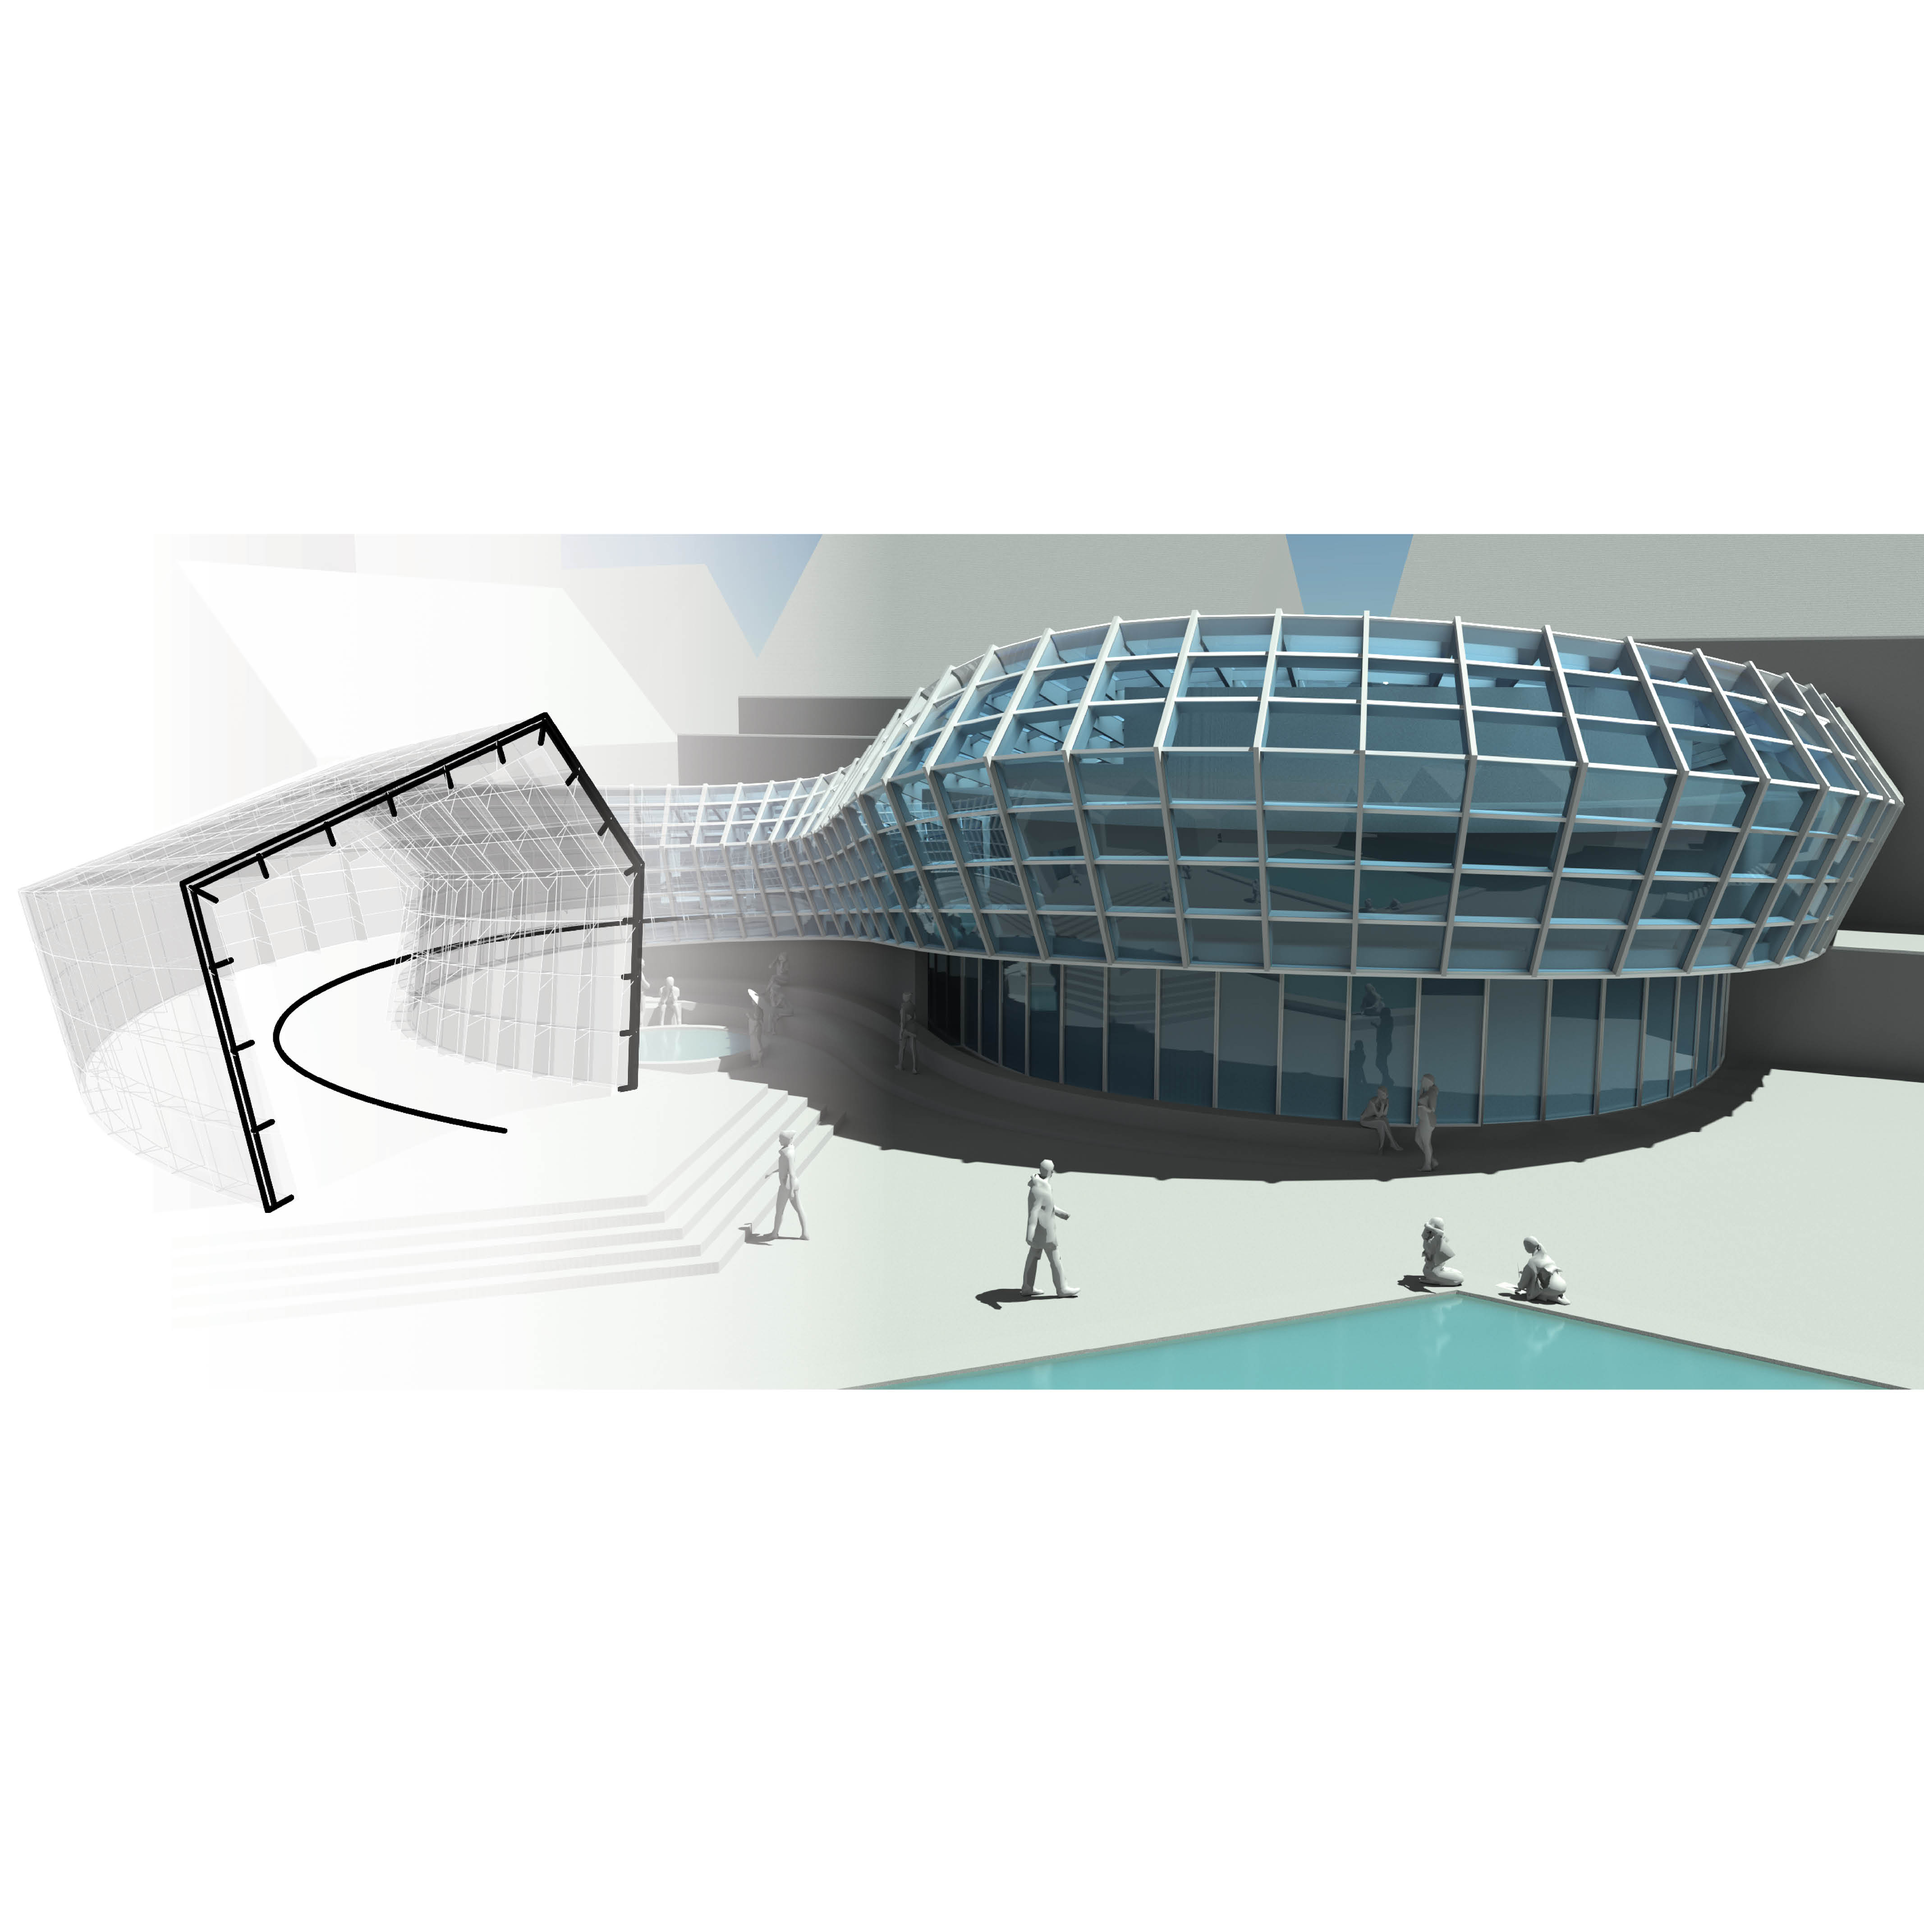
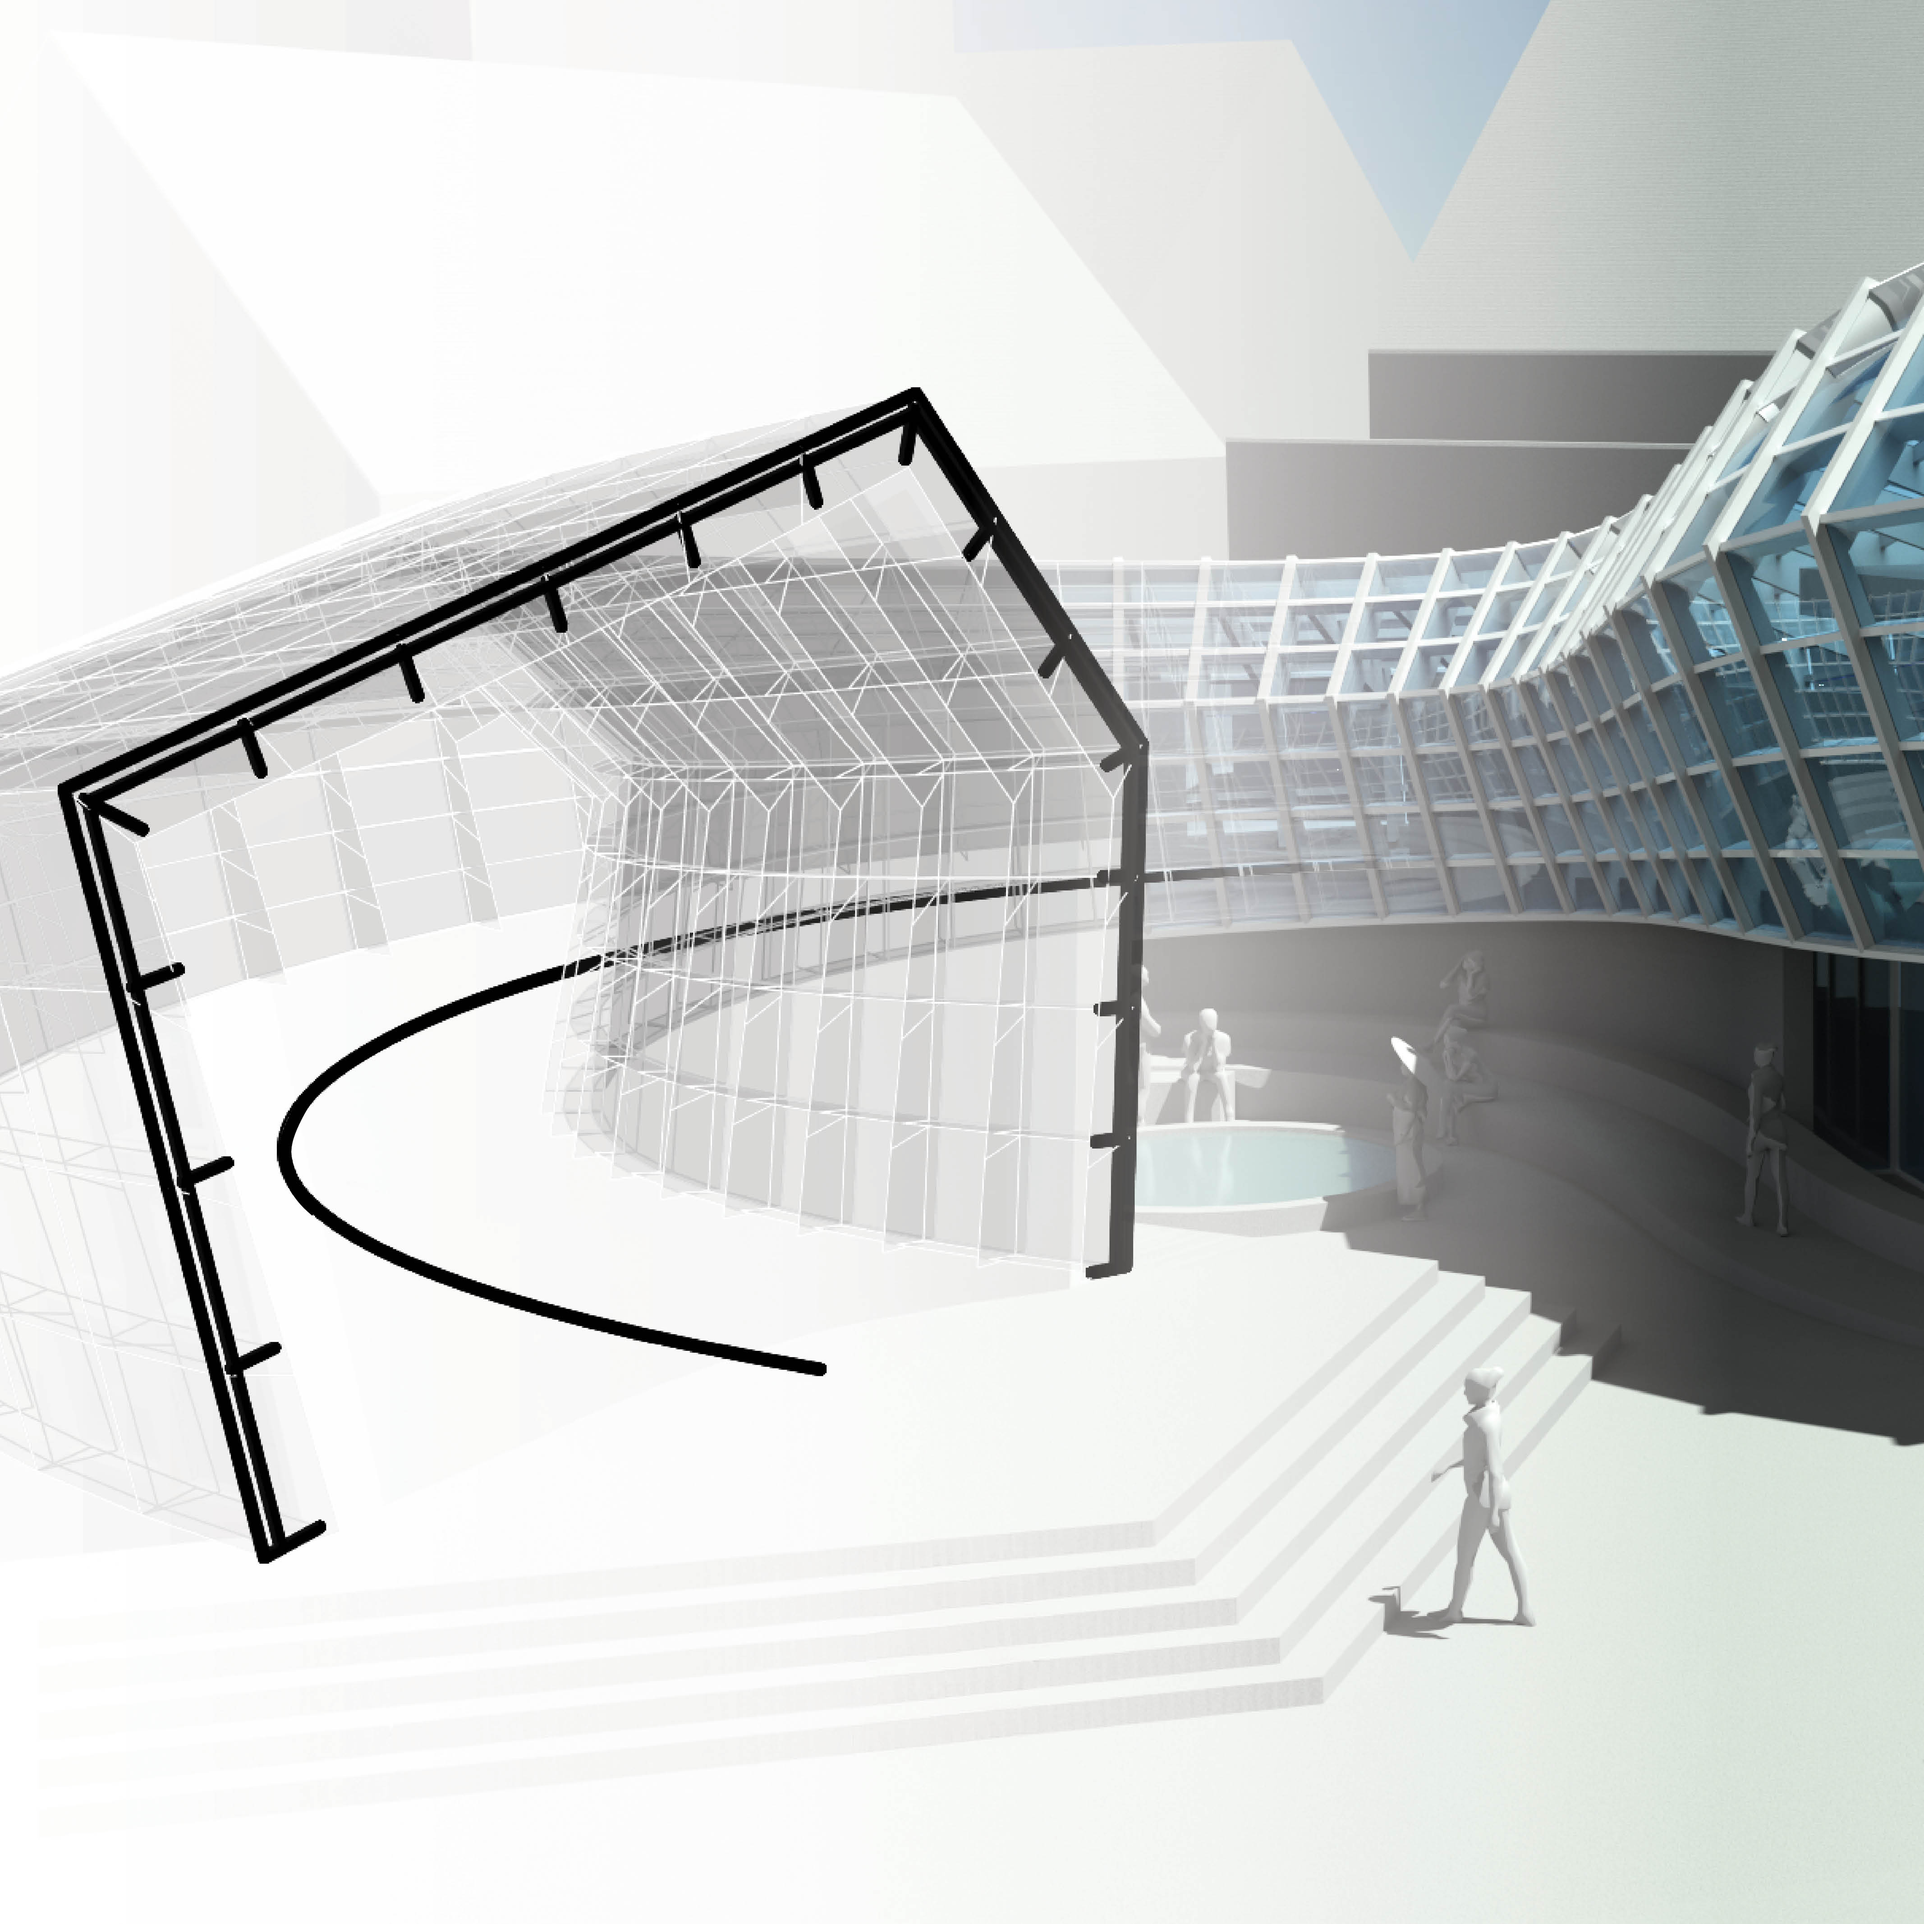
Add abstract, change representative picture for cnets

diff --git a/website/paper_pages/cnets_aag.html b/website/paper_pages/cnets_aag.html
@@ -1,0 +1,65 @@
+<!DOCTYPE html>
+<html>
+<head>
+	<meta charset="utf-8">
+	<meta name="viewport" content="width=device-width, initial-scale=1">
+	<link rel="stylesheet" href="../public/css/jetbrainsFontsStylesheet.css">
+	<link rel="stylesheet" href="../public/css/linuxFontsStylesheet.css">
+	<title>CNets: An Interactive Design Framework for Cone-Nets</title>
+	<link rel="stylesheet" href="../public/css/generalStylesheet.css">
+	<link rel="stylesheet" href="../public/css/projectStylesheet.css">
+	<link rel="stylesheet" href="../public/css/navbarStylesheet.css">
+	<link rel="stylesheet" href="../public/css/darkmodeStylesheet.css">
+	<script src="../src/js/darkmode.js"></script>
+	<link href="https://fonts.googleapis.com/css2?family=Crimson+Text:ital@0;1&family=Source+Code+Pro:wght@600;700&display=swap" rel="stylesheet">
+	<link rel="icon" href="../favicon.png" sizes="32x32">
+</head>
+<body>
+
+<div id="outer_container">
+	<h1 id="title">CNets: An Interactive Design Framework for Cone-Nets</h1>
+	<div id="authors">
+		<p><a href=https://klaramundilova.com/>Klara Mundilova</a>, <span>EPFL, Switzerland</span></p><p><a href=https://people.epfl.ch/michele.vidulis>Michele Vidulis</a>, <span>EPFL, Switzerland</span></p><p><a href=https://qbecky.github.io/><b>Quentin Becker</b></a>, <span>The University of Tokyo, Japan</span></p><p><a href=https://people.epfl.ch/florin.isvoranu>Florin Isvoranu</a>, <span>EPFL, Switzerland</span></p><p><a href=https://people.epfl.ch/mark.pauly>Mark Pauly</a>, <span>EPFL, Switzerland</span></p><br><p><span><i>Advances in Architectural Geometry (AAG)</i>, 2025</span></p><br>
+	</div>
+	<div id="links-outer">
+		<div id = "links">
+			<a href=../papers/cnets_aag/cnets_paper.pdf><svg width=18px height=18px class="icon_links" xmlns="http://www.w3.org/2000/svg"  viewBox="0 0 128 128">    <path d="M 33.5 9 C 26.3 9 20.5 14.8 20.5 22 L 20.5 102 C 20.5 109.2 26.3 115 33.5 115 L 94.5 115 C 101.7 115 107.5 109.2 107.5 102 L 107.5 22 C 107.5 14.8 101.7 9 94.5 9 L 33.5 9 z M 33.5 15 L 94.5 15 C 98.4 15 101.5 18.1 101.5 22 L 101.5 102 C 101.5 105.9 98.4 109 94.5 109 L 33.5 109 C 29.6 109 26.5 105.9 26.5 102 L 26.5 22 C 26.5 18.1 29.6 15 33.5 15 z M 33.5 22 L 33.5 37 L 94.5 37 L 94.5 22 L 33.5 22 z M 37.5 51 C 35.8 51 34.5 52.3 34.5 54 C 34.5 55.7 35.8 57 37.5 57 L 88.5 57 C 90.2 57 91.5 55.7 91.5 54 C 91.5 52.3 90.2 51 88.5 51 L 37.5 51 z M 37.5 66 C 35.8 66 34.5 67.3 34.5 69 C 34.5 70.7 35.8 72 37.5 72 L 88.5 72 C 90.2 72 91.5 70.7 91.5 69 C 91.5 67.3 90.2 66 88.5 66 L 37.5 66 z M 37.5 81 C 35.8 81 34.5 82.3 34.5 84 C 34.5 85.7 35.8 87 37.5 87 L 64 87 C 65.7 87 67 85.7 67 84 C 67 82.3 65.7 81 64 81 L 37.5 81 z"/></svg> PDF</a><p>•</p><a href=https://go.epfl.ch/c-tubes><svg width=18px height=18px class="icon_links" xmlns="http://www.w3.org/2000/svg" viewBox="0 0 640 512"><path d="M392.8 1.2c-17-4.9-34.7 5-39.6 22l-128 448c-4.9 17 5 34.7 22 39.6s34.7-5 39.6-22l128-448c4.9-17-5-34.7-22-39.6zm80.6 120.1c-12.5 12.5-12.5 32.8 0 45.3L562.7 256l-89.4 89.4c-12.5 12.5-12.5 32.8 0 45.3s32.8 12.5 45.3 0l112-112c12.5-12.5 12.5-32.8 0-45.3l-112-112c-12.5-12.5-32.8-12.5-45.3 0zm-306.7 0c-12.5-12.5-32.8-12.5-45.3 0l-112 112c-12.5 12.5-12.5 32.8 0 45.3l112 112c12.5 12.5 32.8 12.5 45.3 0s12.5-32.8 0-45.3L77.3 256l89.4-89.4c12.5-12.5 12.5-32.8 0-45.3z"/></svg> Code</a>
+		</div>
+	</div>
+	<img id="teaser" src="../papers/cnets_aag/representative_aag.png"/>
+	<p id="caption"> Architectural facade with PQ faces and torsion-free support structure designed using our CNets plugin. The generatrix is further subdivided in segments sweeping flat glass panels that pave the cone-net. </p>
+	<h2> Abstract </h2>
+	<p> Planar quadrilateral (PQ) meshes play an important role in Architectural Geometry, with ongoing research focused on developing effective tools for their design. Cone-nets are a special class of regular PQ meshes in which one family of PQ strips forms discrete (projective) cones. This paper builds on recent advances in the study of cone-nets and presents a constructive implementation in an interactive design tool that enables intuitive real-time exploration of the design space of cone-nets within the Grasshopper/Rhino environment. We provide novel theoretical insights into cone-nets, introduce a user-friendly interface, and incorporate a correction mechanism to repair degenerate configurations. Our aim is to make cone-nets more accessible to the broader community of practitioners and to promote their application in advanced architectural design scenarios. </p>
+
+	
+
+	<h2 id="cite-us">Cite Us</h2>
+	<pre><code> @article{mundilova2025cnets,
+    author = "Mundilova, Klara and Vidulis, Michele and Becker, Quentin and Isvoranu, Florin and Pauly, Mark",
+    title = "CNets: An Interactive Design Framework for Cone-Nets",
+    year = "2025",
+    journal = "Advances in Architectural Geometry 2025"
+}
+ </code></pre>
+
+</div>
+
+
+<p id="footer">
+Adapted from <a href="https://github.com/zoemarschner/zoemarschner.com" class="ext_link">Zoë Marschner's website</a> / last updated September 2025</p>
+
+		<div id="nav-bar"> 
+		<h2> <a href="/" id="home_link"> <svg id="home_icon" viewbox="0 0 50 45">
+				<polyline class="st0" points="49,26.12 25,2.98 1,26.12 "/>
+				<path class="st0" d="M7.96,19.61v22.25h10.59c0-11.61,2.96-15.74,6.61-15.74s6.61,4.13,6.61,15.74h10.28V19.61"/>
+			</svg> 
+			Home</a>
+		</h2>
+		<h2>/</h2>
+		<h2><a href="/publications.html">  Publications </a></h2>
+		<h2>/</h2>
+		<h2 class="nav-bar-lg-view">CNets: An Interactive Design Framework for Cone-Nets</h2>
+		<h2 class="nav-bar-sm-view">.</h2>
+	</div>
+</body>
+</html>

diff --git a/website/src/py/static_page_generator.py b/website/src/py/static_page_generator.py
@@ -4,7 +4,7 @@ In a terminal, with the conda environment turned on, run the following command l
 
 python static_page_generator.py
 python static_page_generator.py --erase_existing
-python static_page_generator.py --projects kop_bending --erase_existing
+python static_page_generator.py --projects cnets_aag --erase_existing
 python static_page_generator.py --projects all --erase_existing
 """
 
